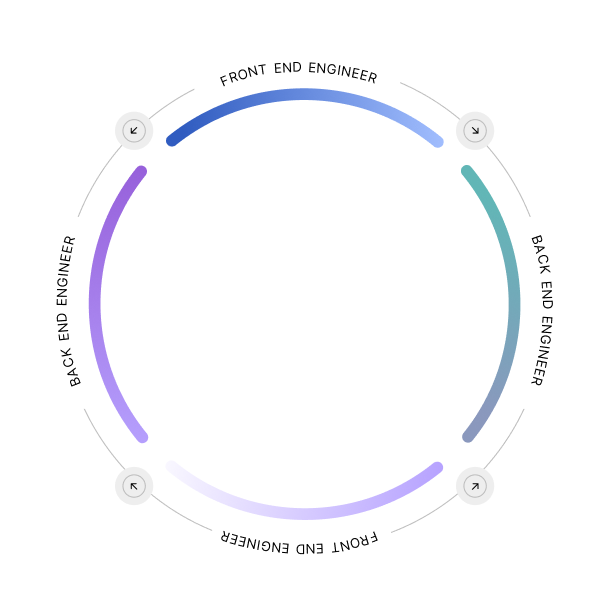
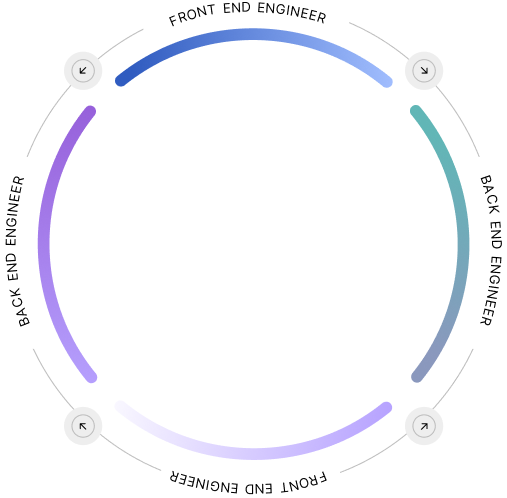
Landing page Partially completed

diff --git a/src/pages/landing/Hero.jsx b/src/pages/landing/Hero.jsx
@@ -1,6 +1,9 @@
 import { Box, Stack, Typography } from "@mui/material";
 import Background from "../../assets/background.jpg";
 import HeroImage from "./HeroImage";
+import Button from "../../components/Button";
+import ArrowForwardRoundedIcon from "@mui/icons-material/ArrowForwardRounded";
+import "./Hero.css";
 
 const Hero = () => {
   return (
@@ -9,31 +12,69 @@ const Hero = () => {
         backgroundImage: `url(${Background})`,
         backgroundRepeat: "no-repeat",
         backgroundSize: "cover",
-        width: "100%",
-        height: "65%",
-        padding: "6rem",
+        height: "60%",
+        paddingBottom: "0px",
         display: "flex",
         justifyContent: "space-between",
+        borderRadius: "2rem",
       }}
     >
       {/* Container */}
-
       <Stack
         sx={{
-          justifyContent: "flex-start",
+          justifyContent: "space-between",
           alignItems: "flex-start",
           alignContent: "center",
           width: "60%",
+          padding: "6rem",
         }}
       >
-        <Box display={"flex"} gap={"2rem"} width={"100%"}>
-          <Typography fontSize={"1.5rem"}>Full Stack Engineer</Typography>
-          <Typography fontSize={"1.5rem"}>Absher K</Typography>
+        <Box>
+          <Box
+            display={"flex"}
+            gap={"2rem"}
+            width={"100%"}
+            alignItems={"center"}
+          >
+            <Typography fontSize={"1.5rem"}>Full Stack Engineer</Typography>
+            <div
+              style={{
+                width: "7px",
+                height: "7px",
+                backgroundColor: "#101322",
+                borderRadius: "100%",
+              }}
+            ></div>
+            <Typography className="sci-fi-text" fontSize={"1.5rem"}>
+              Absher K
+            </Typography>
+            <Box
+              sx={{
+                backgroundColor: "#F",
+                borderRadius: "100%",
+                width: "2rem",
+                height: "2rem",
+                textAlign: "center",
+                display: "flex",
+                justifyContent: "center",
+                alignItems: "center",
+                border: "0.5px solid #101322",
+              }}
+            >
+              <ArrowForwardRoundedIcon
+                sx={{ color: "#101322", fontSize: "1rem" }}
+              />
+            </Box>
+          </Box>
+
+          <Typography variant="h1" fontSize={80} mt={2} textAlign={"left"}>
+            Looking Beyond <br />
+            The Limit
+          </Typography>
         </Box>
-        <Typography variant="h1" textAlign={"left"}>
-          Looking Beyond <br />
-          Limit
-        </Typography>
+        <Box>
+          <Button />
+        </Box>
       </Stack>
       <Box width={"40%"}>
         <HeroImage />

diff --git a/src/components/Button.jsx b/src/components/Button.jsx
@@ -1,0 +1,42 @@
+import { Box, Typography } from "@mui/material";
+import ArrowForwardRoundedIcon from "@mui/icons-material/ArrowForwardRounded";
+// import { SvgIcon } from "@mui/material";
+
+const Button = () => {
+  return (
+    <button
+      style={{
+        background: "none",
+        padding: "0px",
+        display: "flex",
+        flexDirection: "column",
+        gap: "1rem",
+      }}
+    >
+      <Box display={"flex"} gap={6}>
+        <Typography color="#101322" fontSize={"1.5rem"}>
+          Lets Connect
+        </Typography>
+        <Box
+          sx={{
+            backgroundColor: "#101322",
+            borderRadius: "100%",
+            width: "2.5rem",
+            height: "2.5rem",
+            textAlign: "center",
+            display: "flex",
+            justifyContent: "center",
+            alignItems: "center",
+          }}
+        >
+          <ArrowForwardRoundedIcon sx={{ color: "#F", fontSize: "1.5rem" }} />
+        </Box>
+      </Box>
+      <div
+        style={{ backgroundColor: "#101322", height: "4px", width: "100%" }}
+      ></div>
+    </button>
+  );
+};
+
+export default Button;

diff --git a/src/pages/landing/Landing.jsx b/src/pages/landing/Landing.jsx
@@ -1,5 +1,6 @@
 import { Box } from "@mui/material";
 import Hero from "./Hero";
+import DeveloperCard from "./Cards/DeveloperCard";
 
 const Landing = () => {
   return (
@@ -10,6 +11,30 @@ const Landing = () => {
       sx={{ backgroundColor: "#101322" }}
     >
       <Hero />
+
+      <Box
+        width={"100%"}
+        height={"40%"}
+        sx={{ display: "flex", gap: "1rem", paddingTop: "1rem" }}
+      >
+        <Box
+          width={"30%"}
+          height={"100%"}
+          sx={{ backgroundColor: "white", borderRadius: "2rem" }}
+        >
+          <DeveloperCard />
+        </Box>
+        <Box
+          width={"30%"}
+          height={"100%"}
+          sx={{ backgroundColor: "white", borderRadius: "2rem" }}
+        ></Box>
+        <Box
+          width={"40%"}
+          height={"100%"}
+          sx={{ backgroundColor: "white", borderRadius: "2rem" }}
+        ></Box>
+      </Box>
     </Box>
   );
 };

diff --git a/src/pages/landing/HeroImage.module.css b/src/pages/landing/HeroImage.module.css
@@ -1,15 +1,37 @@
 .container {
   position: relative;
+  width: 100%;
+  height: 100%;
+  display: flex;
 }
 
 .circle {
   z-index: 1;
   position: absolute;
-  top: 0;
+  top: 50%;
+  left: 50%;
+  transform: translate(-50%, -50%);
+  bottom: 0px;
+  height: 90%;
+  animation: rotate 12s linear infinite;
+  transform-origin: center;
 }
 
 .portrait {
   z-index: 99;
   position: absolute;
-  top: 0;
+  bottom: 0px;
+  left: 50%;
+  transform: translate(-50%);
+  height: 80%;
+  bottom: 0px;
+}
+
+@keyframes rotate {
+  0% {
+    transform: translate(-50%, -50%) rotate(0deg);
+  }
+  100% {
+    transform: translate(-50%, -50%) rotate(360deg);
+  }
 }

diff --git a/src/pages/landing/Hero.css b/src/pages/landing/Hero.css
@@ -1,0 +1,21 @@
+.sci-fi-container {
+  display: flex;
+  justify-content: center;
+  align-items: center;
+  height: 100vh;
+  background: #000; /* Optional: sci-fi themed background */
+  color: #00ffcc;
+  font-family: "Courier New", monospace;
+  font-size: 2rem;
+  overflow: hidden;
+}
+
+.sci-fi-text {
+  position: relative;
+  cursor: pointer;
+  transition: color 0.2s ease-in-out;
+}
+
+.sci-fi-text:hover {
+  color: #ff33cc;
+}

diff --git a/src/pages/landing/Cards/DeveloperCard.jsx b/src/pages/landing/Cards/DeveloperCard.jsx
@@ -1,0 +1,13 @@
+import { Box, Typography } from "@mui/material";
+
+const DeveloperCard = () => {
+  return (
+    <Box width={"100%"} height={"100%"}>
+      <Typography variant="h3" fontSize={"2rem"}>
+        Full Stack Developer
+      </Typography>
+    </Box>
+  );
+};
+
+export default DeveloperCard;
